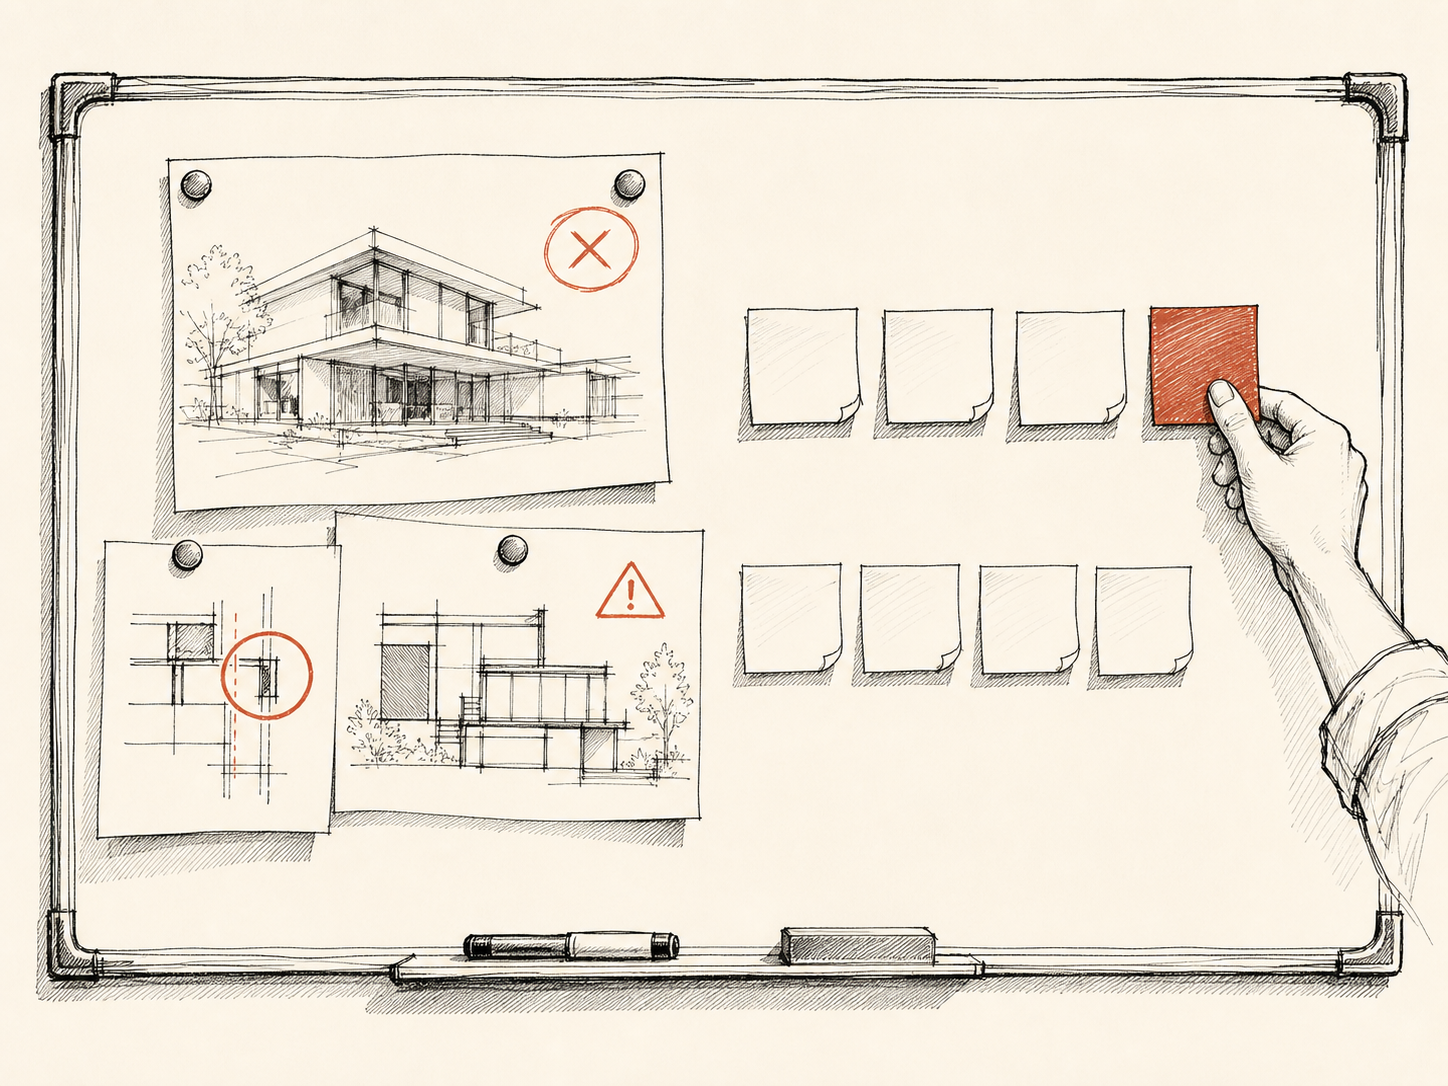
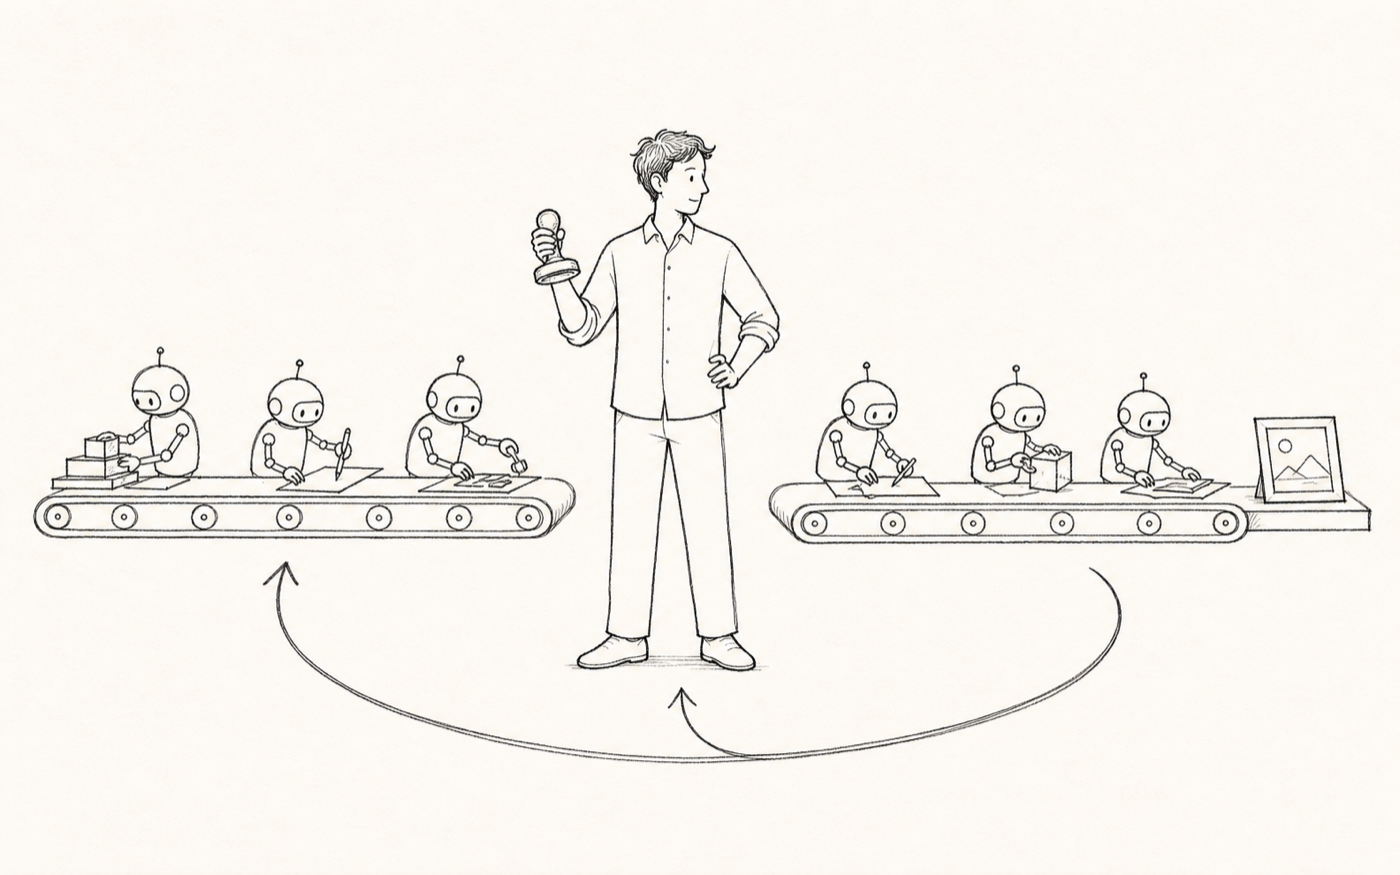
feat(presentation): 07 頁改為 Agent 編排概念頁（移除 arch1 白板、雙碼區+loop 概念圖+編排範本）
- 刪除原第 7 頁「白板」section（room=arch1 唯一引用處,一併退役 arch1）
- 新增 slide top「動手四・編排」:kicker/h2/lead/keyline 承接 04/05/06 敘事
- 純 HTML/CSS 編排概念圖 .orch-diagram(左 04 lane / 中 05 決策反白 / 右 06 lane)
  + 全寬 .orch-loop 自主檢核循環;新增 @media(max-width:900px) 單欄降級
- ul.list 兩組分工(平行 sub-agents + 一個 loop check agent)
- 兩個 copyBlock 範本:tplOrchestrate(編排 pseudocode)、tplCliReal(真實 CLI)
- 沿用既有元件/CSS,無新視覺語言;維持全簡報 8 頁;複用 p7-a.png 新插圖

diff --git a/presentation/index.html b/presentation/index.html
@@ -212,6 +212,17 @@ a.btnbox.home:before{content:"← ";}
 .p6-img-row img{width:100%;}
 @media (max-width:900px){.p6-img-row figure.ill{flex:1 1 100%;max-width:100%;}}
 
+/* ---------- slide "動手四・編排": orchestration concept diagram (pure HTML/CSS, reuses .hstep/.note) ---------- */
+.orch-diagram{display:grid;grid-template-columns:1fr auto 1fr;gap:24px;align-items:stretch;max-width:1120px;margin:24px 0 8px;}
+.orch-diagram .lane{display:flex;flex-direction:column;gap:12px;}
+.orch-diagram .lane .hstep{padding:16px;}
+.orch-diagram .orch-center{display:flex;align-items:center;justify-content:center;}
+.orch-diagram .orch-center .hstep{padding:20px 18px;text-align:center;border-color:var(--color-ink);}
+.orch-diagram .note{margin:4px 0 0;}
+.orch-loop{border:1px solid var(--color-ink);padding:16px 24px;margin:0 0 8px;max-width:1120px;font-size:15px;line-height:1.7;}
+.orch-loop .lab{display:block;font-size:12px;text-transform:uppercase;letter-spacing:.10em;color:var(--color-ash);margin-bottom:6px;}
+.orch-loop .flow{font-family:ui-monospace,SFMono-Regular,Menlo,Consolas,monospace;font-size:14px;}
+
 /* ---------- dark-slide overrides for reused paper components (codewrap / list) ---------- */
 .slide.dark h2.display{color:var(--color-paper);}
 .slide.dark p.body{color:var(--color-paper);}
@@ -240,6 +251,7 @@ body.dark-mode .navbtns button:hover{background:var(--color-paper);color:var(--c
 @media (max-width:900px){
   .tool-grid,.handson{grid-template-columns:1fr 1fr;}
   .weigh-layout,.compare-grid{grid-template-columns:1fr;gap:24px;}
+  .orch-diagram{grid-template-columns:1fr;}
   .hint{display:none;}
   .edgenav,.localesw{display:none;}
   .slide{padding:48px 24px 80px;}
@@ -562,14 +574,93 @@ pre.code::-webkit-scrollbar-track,.gentext::-webkit-scrollbar-track{background:v
     </div>
   </section>
 
-  <!-- 7 — 白板 -->
-  <section class="slide" data-title="白板">
-    <div class="kicker"><span class="arrow">↗</span> <span>Board</span> <span class="num">07 / 08</span></div>
-    <h2 class="display">「我選 X,因為___。」</h2>
-    <p class="body">把你的決定貼出來:FAIL 報告截圖貼左半邊、兩張便利貼(A/B/C/D 那張+「我採用了誰」那張)貼右半邊。</p>
-    <a class="btnbox ext board" href="board/board.html?room=arch1" target="_blank" rel="noopener" style="margin-top:8px;">進入白板 — 貼你的 FAIL 報告與決策卡</a>
+  <!-- 7 — 動手四・編排(Agent Orchestration) -->
+  <section class="slide top" data-title="動手四・編排">
+    <div class="kicker"><span class="arrow">↗</span> <span>Orchestration</span> <span class="num">07 / 08</span></div>
+    <h2 class="display">你只做決策,一群 agent 平行替你跑 04 和 06</h2>
+    <p class="lead">剛才你一個人跑完:找法源、跑檢討標準卡(04)、FAIL 之後選 A/B/C/D(05)、再開第二個 AI 複核(06)。能不能在同一個專案裡,同時派很多 agent 平行跑 04 和 06,我只留下 05 的決策?</p>
+    <p class="keyline">你只定案;廣度交給平行的 sub-agents,深度交給一個 loop 檢查 agent 自己轉。</p>
+
+    <div class="orch-diagram">
+      <div class="lane">
+        <div class="compare-label">Lane · 04 檢討</div>
+        <div class="hstep"><span class="hn">Step 1</span><span class="ht">找法源(HJPLUS KB)</span></div>
+        <div class="hstep"><span class="hn">Step 2</span><span class="ht">跑檢討標準卡 → PASS/FAIL</span></div>
+        <div class="hstep"><span class="hn">Step 3</span><span class="ht">配圖·生一張示意</span></div>
+        <div class="note"><span class="tag">平行 ⇉</span> 三個一起跑</div>
+      </div>
+      <div class="orch-center">
+        <div class="hstep" style="background:var(--color-ink);color:var(--color-paper);"><span class="hn" style="color:var(--color-graphite);">你 · 05</span><span class="ht">只做決策<br>A / B / C / D</span></div>
+      </div>
+      <div class="lane">
+        <div class="compare-label">Lane · 06 複核</div>
+        <div class="hstep"><span class="hn">Step 1</span><span class="ht">開第二個 AI 複核</span></div>
+        <div class="hstep"><span class="hn">Step 2</span><span class="ht">比對適用範圍與數字</span></div>
+        <div class="hstep"><span class="hn">Step 3</span><span class="ht">回報 同意/不同意</span></div>
+        <div class="note"><span class="tag">平行 ⇉</span> 代跑,不代決</div>
+      </div>
+    </div>
+    <div class="orch-loop">
+      <span class="lab">LOOP CHECK AGENT · 自主檢核循環</span>
+      <span class="flow">你·05 → 04 依新決策重算 → 06 自動複核 → ⟳ 回 05</span>
+    </div>
+
+    <div class="fn-eyebrow">— 分工:平行代跑 + 一個 loop 收斂 —</div>
+    <p class="body" style="margin-bottom:4px;"><b>複數 sub-agents(平行代跑)</b></p>
+    <ul class="list">
+      <li>規劃 → ops(Sol)</li>
+      <li>產出可用的 .py → Terra(Sonnet)</li>
+      <li>複核·review → ops</li>
+      <li>免思考的繁瑣執行 → Luna(Haiku)</li>
+      <li>配圖(生圖) → codex(gpt-image)</li>
+      <li>設計圖 prompt → Antigravity(agy -p)</li>
+    </ul>
+    <p class="body" style="margin:12px 0 4px;"><b>一個 LOOP CHECK AGENT(閉環驅動)</b></p>
+    <ul class="list">
+      <li>盯每次 05 決策 → 觸發 04 重算 → 收 06 複核 → 回報是否收斂;不外包決策,自動轉到「06 通過或你喊停」。</li>
+    </ul>
+
+    <div class="codewrap" style="margin-top:16px;">
+      <div class="codebar"><span class="muted">編排 pseudocode · takeaway<span class="scrollhint">⇣ 內文可捲動</span></span>
+        <button class="copybtn" onclick="copyBlock('tplOrchestrate',this)">複製編排 pseudocode</button>
+      </div>
+      <pre class="code" id="tplOrchestrate">任務 = 一份可用的檢討成果 + 一張附圖   # 我只做決策
+
+團隊 = 一群專家,分工:
+    規劃          → ops(Sol)          # 擬策略、拆任務表
+    產出可用的 .py → Terra(Sonnet)     # 寫出能跑的檢討程式
+    複核 / review → ops               # 回頭查產出對不對
+    繁瑣執行       → Luna(Haiku)       # 免思考的重複整理
+    配圖(生圖)     → codex(gpt-image)  # 產一張示意圖
+    設計圖 prompt → agy -p            # 描述設計圖長怎樣
+
+平行執行(團隊)                        # 複數 sub-agents,六個一起跑不排隊
+建構 交回 = 成果.py + 附圖.png
+
+# 一個 LOOP CHECK AGENT 自己轉的閉環(自主檢核循環):
+迴圈 每當我改 05 決策:
+    04 依新決策重算 → 得到新結果
+    06 自動複核新結果 → 同意 / 不同意
+    回到 05                          # 直到 06 通過,或我喊停
+
+我 = 只看匯合結果 + loop 收斂狀態 → 定案(A / B / C / D)   # 05 不外包</pre>
+    </div>
+
+    <div class="codewrap" style="margin-top:16px;">
+      <div class="codebar"><span class="muted">想深入才看 · 真實 CLI<span class="scrollhint">⇣ 內文可捲動</span></span>
+        <button class="copybtn" onclick="copyBlock('tplCliReal',this)">複製真實 CLI</button>
+      </div>
+      <pre class="code" id="tplCliReal"># 平行 = 同時開多個 headless(-p / exec)子任務,各自獨立 context
+codex exec --sandbox workspace-write --skip-git-repo-check -C ./proj "寫出 daylight_check.py,吃實測值輸出 PASS/FAIL"
+codex exec --sandbox workspace-write -C ./proj "產一張採光檢討示意圖存成 ./fig.png"   # gpt-image
+agy -p "描述這張設計圖要長怎樣,給生圖用的 prompt" --dangerously-skip-permissions
+# 多數分工用 harness 自己的 sub-agent(內部就能平行開),
+# 只有要 CLI 專屬能力(如 codex 的 gpt-image-2)才 shell 出去。</pre>
+    </div>
+
+    <div class="note" style="margin-top:24px;"><span class="tag">邊界:</span>平行的是「代跑」不是「代決」——匯合後的 A/B/C/D 永遠回到你。model-tier 只影響成本與速度,不影響誰負責。</div>
     <figure class="ill ill-full">
-      <img src="assets/arch/p7-a.png" alt="白板速寫:左半貼著幾張截圖樣的紙,右半兩排便利貼,一隻手正把一張便利貼按上去" loading="lazy" onerror="this.closest('figure').style.display='none'">
+      <img src="assets/arch/p7-a.png" alt="編排速寫:中間一人握一枚章做決策,左右兩條輸送帶各數個小 agent 平行代跑,右帶尾端吐出一張附圖,下方回饋箭頭繞回中心" loading="lazy" onerror="this.closest('figure').style.display='none'">
     </figure>
   </section>
 
